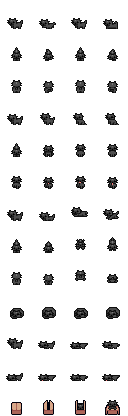
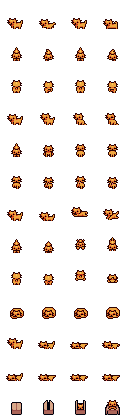
Cat sprite: swap from Black to Ginger
Same path (Objects/Pets/cat.png) and same 32×32 layout; just a friendlier
colour. Source was Sprites/Animals/Pets/Cats/1/Ginger.png.

diff --git a/app.js b/app.js
@@ -141,7 +141,7 @@ class MapScene extends Phaser.Scene {
     // Row 0 is the down-walk cycle, which we loop as the idle anim. Source
     // PNGs are copied out of the gitignored Sprites/ dump into Objects/Pets/
     // so the tree builds without the raw asset pack (same pattern as
-    // Objects/Wilderness/). Originals were Sprites/Animals/Pets/Cats/1/Black.png
+    // Objects/Wilderness/). Originals were Sprites/Animals/Pets/Cats/1/Ginger.png
     // and Sprites/Animals/Pets/Dogs/Premade/1/1.png; swap with sibling sheets
     // from those folders if we ever want colour variety.
     this.load.spritesheet('cat', 'Objects/Pets/cat.png', { frameWidth: 32, frameHeight: 32 });